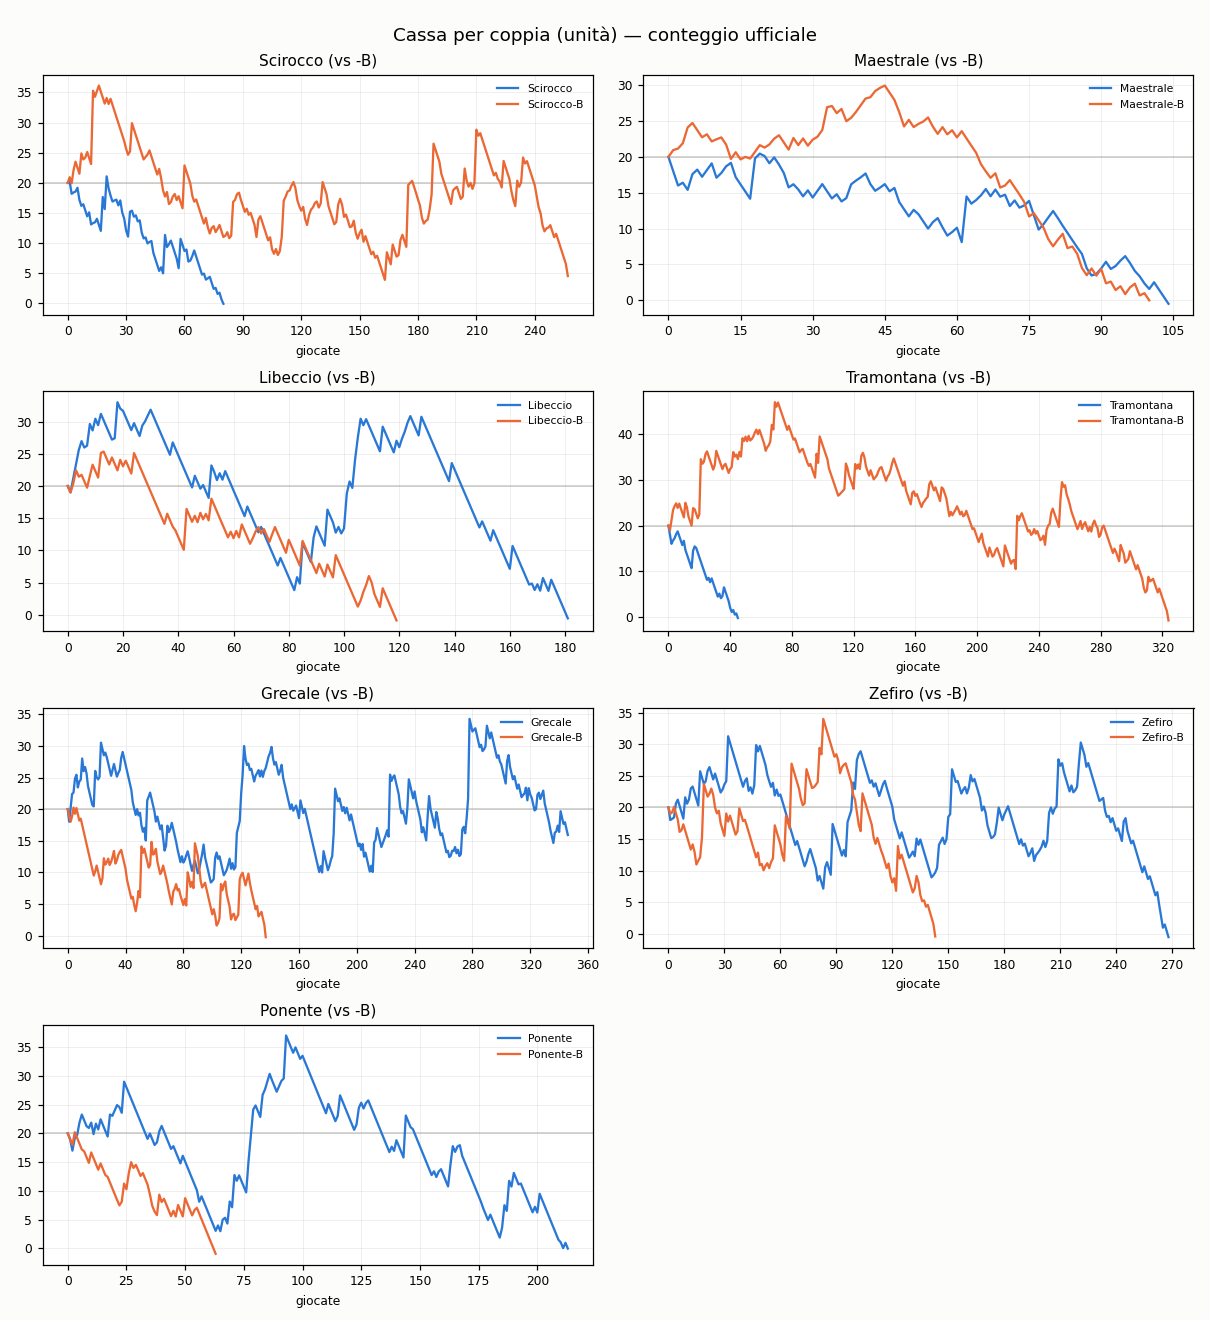
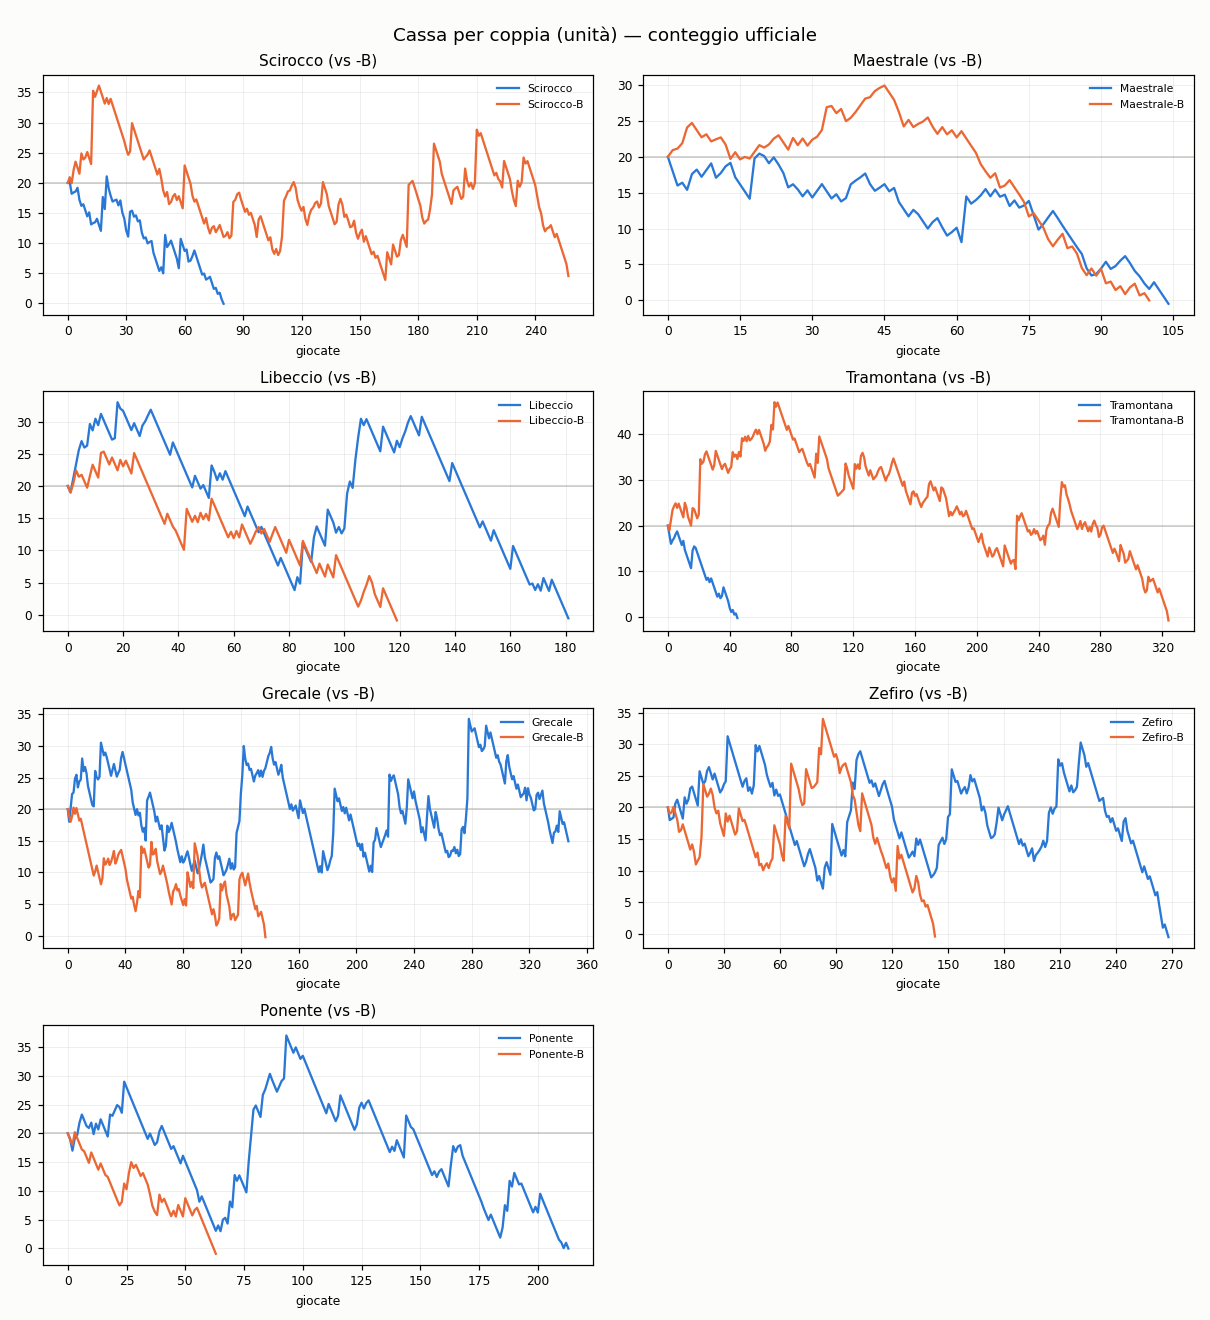
aggiornamento 2026-07-28 17:21 UTC

diff --git a/README.md b/README.md
@@ -37,9 +37,9 @@ scala in unità). Non indichiamo quale.
 
 ## Grafici
 
-![Coppie: dati completi vs ridotti](https://raw.githubusercontent.com/Kitem19/ippica-track-record/main/charts/equity_pairs.png?v=26ea07b2)
+![Coppie: dati completi vs ridotti](https://raw.githubusercontent.com/Kitem19/ippica-track-record/main/charts/equity_pairs.png?v=80d138b9)
 
-![Delta per coppia](https://raw.githubusercontent.com/Kitem19/ippica-track-record/main/charts/coppie_delta.png?v=f3cc7ba2)
+![Delta per coppia](https://raw.githubusercontent.com/Kitem19/ippica-track-record/main/charts/coppie_delta.png?v=d31373b0)
 
 ### Come leggere i grafici
 
@@ -60,7 +60,7 @@ _Poche giornate: numeri ancora rumorosi, si conclude a fine fase (31/7)._
 - **Maestrale**: in sostanziale pareggio — troppo presto per dire
 - **Libeccio**: in sostanziale pareggio — troppo presto per dire
 - **Tramontana**: in sostanziale pareggio — troppo presto per dire
-- **Grecale**: dati completi avanti di 16,2u
+- **Grecale**: dati completi avanti di 15,2u
 - **Zefiro**: in sostanziale pareggio — troppo presto per dire
 - **Ponente**: in sostanziale pareggio — troppo presto per dire
 
@@ -68,22 +68,22 @@ _Poche giornate: numeri ancora rumorosi, si conclude a fine fase (31/7)._
 
 | Sistema | Cassa (u) | P/L (u) | Selezioni | Escluse | Stato |
 |---|---|---|---|---|---|
-| Grecale | 15,9 | -4,1 | 346 | 4 | 🟢 |
+| Grecale | 14,9 | -5,1 | 347 | 4 | 🟢 |
 | Scirocco-B | 4,5 | -15,5 | 257 | 6 | 🟢 |
 | Maestrale-B | 0,0 | -20,0 | 100 | 280 | 🛑 |
 | Ponente | 0,0 | -20,0 | 213 | 54 | 🛑 |
-| Scirocco | 0,0 | -20,1 | 80 | 303 | 🛑 |
+| Scirocco | 0,0 | -20,1 | 80 | 304 | 🛑 |
 | Grecale-B | 0,0 | -20,2 | 137 | 196 | 🛑 |
-| Tramontana | 0,0 | -20,3 | 45 | 341 | 🛑 |
+| Tramontana | 0,0 | -20,3 | 45 | 342 | 🛑 |
 | Zefiro-B | 0,0 | -20,5 | 143 | 96 | 🛑 |
-| Maestrale | 0,0 | -20,5 | 104 | 299 | 🛑 |
-| Zefiro | 0,0 | -20,6 | 268 | 30 | 🛑 |
-| Libeccio | 0,0 | -20,6 | 181 | 204 | 🛑 |
-| Tramontana-B | 0,0 | -20,8 | 324 | 50 | 🛑 |
-| Libeccio-B | 0,0 | -20,9 | 119 | 215 | 🛑 |
+| Maestrale | 0,0 | -20,5 | 104 | 300 | 🛑 |
+| Zefiro | 0,0 | -20,6 | 268 | 31 | 🛑 |
+| Libeccio | 0,0 | -20,6 | 181 | 205 | 🛑 |
+| Tramontana-B | 0,0 | -20,8 | 324 | 51 | 🛑 |
+| Libeccio-B | 0,0 | -20,9 | 119 | 216 | 🛑 |
 | Ponente-B | 0,0 | -21,0 | 63 | 114 | 🛑 |
 
-_Aggiornato: 28/07 19:16_
+_Aggiornato: 28/07 19:21_
 ---
 *Nessuna delle informazioni qui pubblicate costituisce consiglio di gioco.
 Il gioco può causare dipendenza — 18+.*
